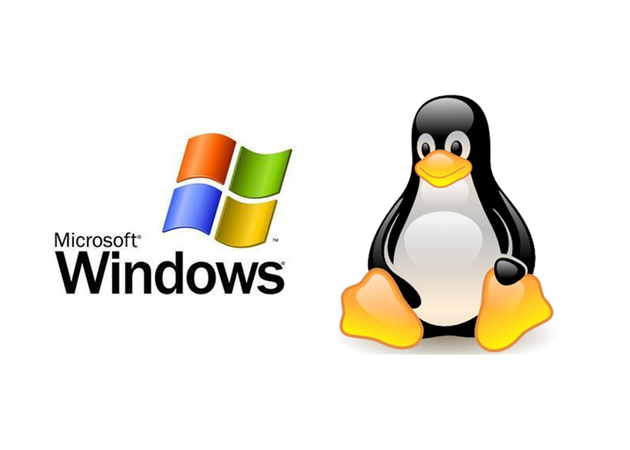
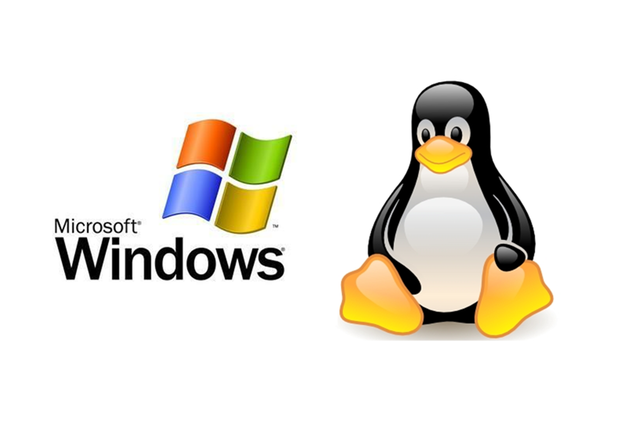
agrego links en imagenes y arreglo tamaño de wl.png

diff --git a/index.html b/index.html
@@ -45,14 +45,14 @@
   <div class="container">
     <div class="row">
       <div class="col s12 m6">
-              <div class="card">
+              <div class="card hoverable">
                 <div class="card-image">
-                    <img src="assets/wxp1.png">
+                    <a href="instalacion.html"><img src="assets/wxp1.png"></a>
                     <span class="card-title black-text text-fow hide-on-small-only">Instalación Windows XP</span>
                     <span class="card-title black-text text-fow hide-on-med-and-up">Instalación W XP</span>
                 </div>
                 <div class="card-content">
-                    <p class="flow-text">Instalación de Windows XP paso a paso y lo que va sucediendo a medida que avanzamos.<br>Click en el enlace de abajo.</p>
+                    <p class="flow-text">Instalación de Windows XP paso a paso y lo que va sucediendo a medida que avanzamos.</p>
                 </div>
                   <div class="card-action">
                     <a href="instalacion.html">Instalando Windows XP</a>
@@ -62,11 +62,11 @@
           <div class="col s12 m6">
               <div class="card hoverable">
                 <div class="card-image">
-                    <img src="assets/board.jpg">
+                    <a href="mainboard.html"><img src="assets/board.jpg"></a>
                     <span class="card-title">Board</span>
                 </div>
                 <div class="card-content">
-                    <p class="flow-text">Las partes principales de la board, arranque del S.O, perifericos internos y externos <br>Click en el enlace de abajo</p>
+                    <p class="flow-text">Las partes principales de la board, arranque del S.O, perifericos internos y externos.</p>
                 </div>
                 <div class="card-action">
                     <a href="mainboard.html">La mainboard</a>
@@ -74,13 +74,13 @@
               </div>
           </div>
         <div class="col s12 m6">
-            <div class="card">
+            <div class="card hoverable">
               <div class="card-image">
-               <img height="" src="assets/wl.png">
+               <a href="archivos.html"><img height="" src="assets/wl.png"></a>
                <span class="card-title black-text">Archivos compartidos</span>
               </div>
             <div class="card-content">
-                <p class="flow-text">Cuando tenemos una PC dual boot con un sistema windows y uno linux, desde linux podemos ver los archivos de windows, pero nos encontramos con la sorpresa de que desde windows no podemos ver nuestros archivos en linux. Aquí te explico como ver tus archivos de forma bidireccional.<br><br>Click en el enlace de abajo para más información</p>
+                <p class="flow-text">Cuando tenemos una PC dual boot con un sistema windows y uno linux, desde linux podemos ver los archivos de windows, pero nos encontramos con la sorpresa de que desde windows no podemos ver nuestros archivos en linux. Aquí te explico como ver tus archivos de forma bidireccional.<br></p>
             </div>
             <div class="card-action">
               <a href="archivos.html">Viendo archivos entre sistemas</a>
@@ -88,13 +88,13 @@
           </div>
         </div>
         <div class="col s12 m6">
-            <div class="card">
+            <div class="card hoverable">
               <div class="card-image">
-               <img src="assets/1.png">
+               <a href="dualboot.html"><img src="assets/1.png"></a>
                <span class="card-title black-text">Instalación Ubuntu</span>
               </div>
             <div class="card-content">
-                <p class="flow-text">Windows y GNU/Linux son dos sistemas operativos muy diferentes, cada unos con sus ventajas y desventajas, esto hace que muchos usuarios quieran tener uno u otro, lo cual los pone en un dilema, ¿cúal sistema elegir? Bueno pues puedes tener ambos en una pc con dual boot.<br class="hide-on-large-only"><br><br>Click en el enlace de abajo para ver paso a paso.</p>
+                <p class="flow-text">Windows y GNU/Linux son dos sistemas operativos muy diferentes, cada unos con sus ventajas y desventajas, esto hace que muchos usuarios quieran tener uno u otro, lo cual los pone en un dilema, ¿cúal sistema elegir? Bueno pues puedes tener ambos en una pc con dual boot.<br class="hide-on-large-only"><br></p>
             </div>
             <div class="card-action">
               <a href="dualboot.html">Instalación Ubuntu</a>
